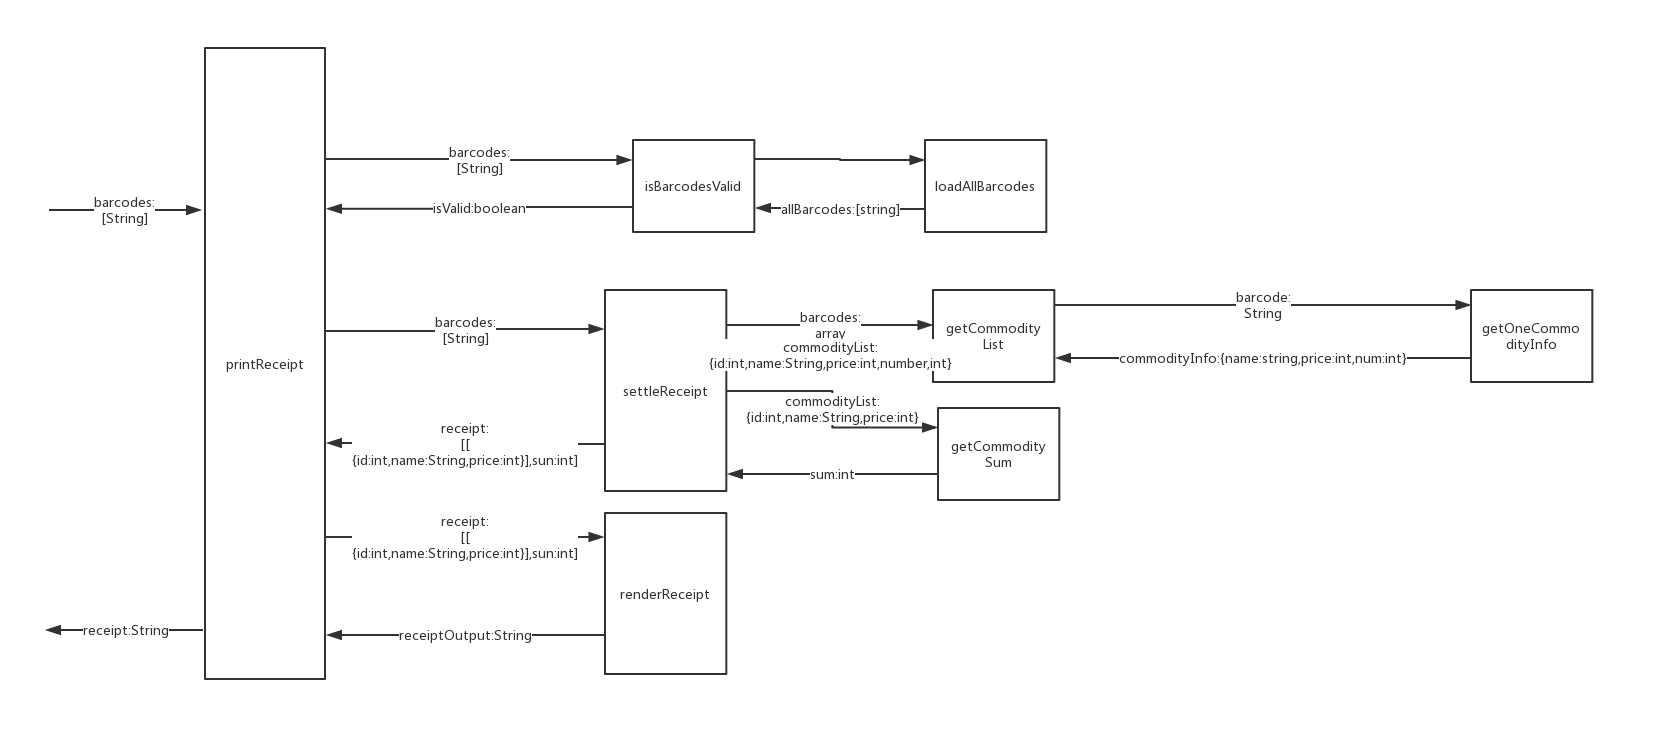
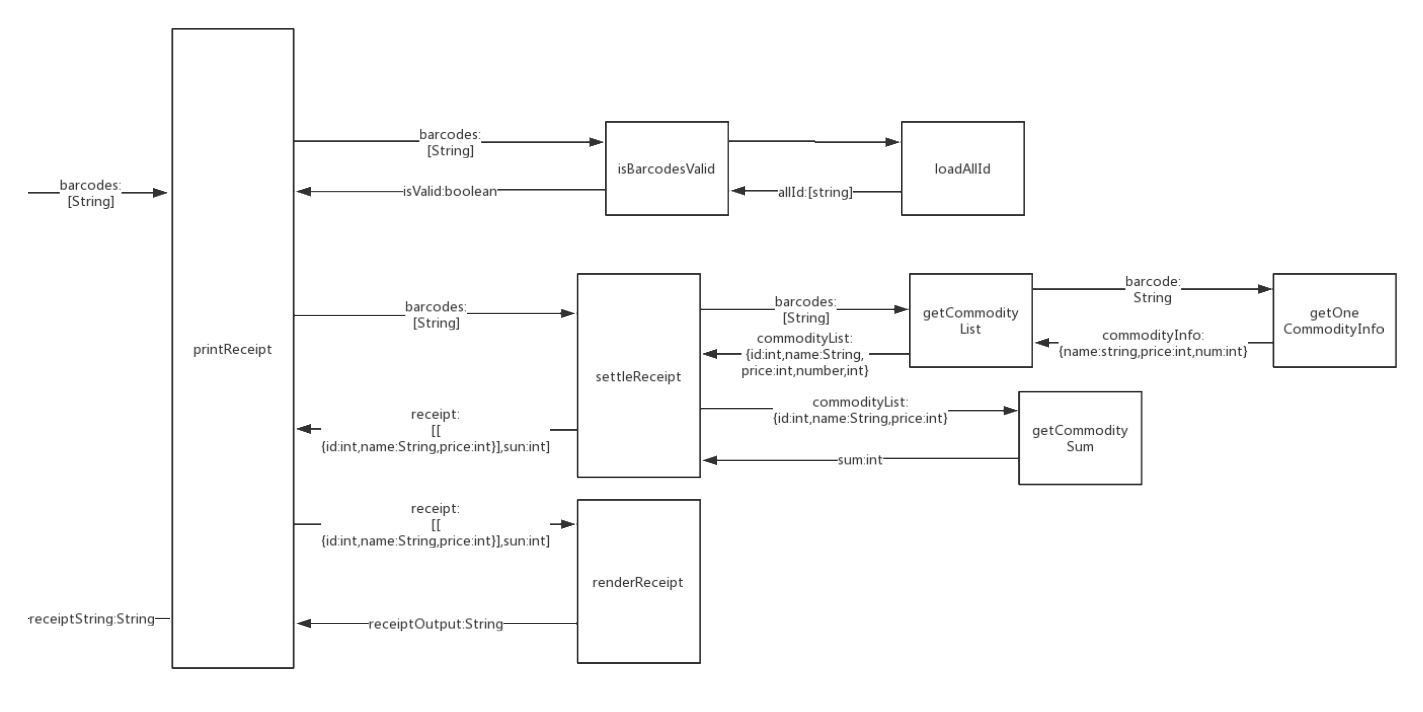
done

diff --git a/PosMashine/__tests__/main-spec.js b/PosMashine/__tests__/main-spec.js
@@ -1,7 +1,92 @@
 
 var m= require('../main');
 
+//loadAllId()
+it ('should return [\'0001\',\'0002\',\'0003\',\'0004\',\'0005\',\'0006\',\'0007\',\'0008\',\'0009\',\'0010\'] ',() => {
+    expect(m.loadAllId()).toStrictEqual(['0001','0002','0003','0004','0005','0006','0007','0008','0009','0010']);
+});
 
-it ('should return true ', () => {
-    expect(m.loadAllBarcodes()).toBe(['0001','0002','0003','0004',]);
+//isBarcodesValid()
+//合法
+it ('should return true',() => {
+    expect(m.isBarcodesValid(['0001', '0003', '0005', '0003'])).toBe(true);
+})
+//出现不合法数据
+it ('should return false',() => {
+    expect(m.isBarcodesValid(['0011', '0003', '0005', '0003'])).toBe(false);
+});
+//出现空输入
+it ('should return false',() => {
+    expect(m.isBarcodesValid([])).toBe(false);
+});
+
+//getOneCommodityInfo()
+
+it ('should return {"id": "0001", "name" : "Coca Cola", "price": 3,"num":0}',() => {
+    expect(m.getOneCommodityInfo('0001')).toStrictEqual({"id": "0001", "name" : "Coca Cola", "price": 3,"num":0});
+});
+
+//getCommodityList()
+
+it ('should return [{"id": "0001", "name" : "Coca Cola", "price": 3,"num":1},\n' +
+    '        {"id": "0003", "name" : "Pepsi-Cola", "price": 5,"num":2},\n' +
+    '        {"id": "0005", "name" : "Dr Pepper", "price": 7,"num":1}]',() => {
+    expect(m.getCommodityList(['0001', '0003', '0005', '0003'])).toStrictEqual(
+        [{"id": "0001", "name" : "Coca Cola", "price": 3,"num":1},
+        {"id": "0003", "name" : "Pepsi-Cola", "price": 5,"num":2},
+        {"id": "0005", "name" : "Dr Pepper", "price": 7,"num":1}]);
+});
+
+//getCommoditySum()
+
+it ('should return 20',() => {
+    expect(m.getCommoditySum([{"id": "0001", "name" : "Coca Cola", "price": 3,"num":1},
+        {"id": "0003", "name" : "Pepsi-Cola", "price": 5,"num":2},
+        {"id": "0005", "name" : "Dr Pepper", "price": 7,"num":1}])).toBe(20);
+});
+
+//settleReceipt()
+
+it ('should return settleReceipt',() => {
+    expect(m.settleReceipt(['0011', '0003', '0005', '0003'])).toStrictEqual({
+        commodity:[
+            {"id": "0001", "name" : "Coca Cola", "price": 3,"num":1},
+            {"id": "0003", "name" : "Pepsi-Cola", "price": 5,"num":2},
+            {"id": "0005", "name" : "Dr Pepper", "price": 7,"num":1}
+        ],
+        sum:20
+    });
+});
+//renderReceipt()
+
+it ('should return renderReceipt',() => {
+    expect(m.renderReceipt({
+        commodity:[
+            {"id": "0001", "name" : "Coca Cola", "price": 3,"num":1},
+            {"id": "0003", "name" : "Pepsi-Cola", "price": 5,"num":2},
+            {"id": "0005", "name" : "Dr Pepper", "price": 7,"num":1}
+        ],
+        sum:20
+    }))
+        .toBe(
+`------------------------------------------------------------
+Coca Cola 3 1
+Pepsi-Cola 5 2
+Dr Pepper 7 1
+------------------------------------------------------------
+Price: 20`
+);
+});
+
+//printReceipt()
+
+it ('should return printReceipt',() => {
+    expect(m.printReceipt(['0001', '0003', '0005', '0003'])).toBe(
+`------------------------------------------------------------
+Coca Cola 3 1
+Pepsi-Cola 5 2
+Dr Pepper 7 1
+------------------------------------------------------------
+Price: 20`
+    );
 });

diff --git a/PosMashine/main.js b/PosMashine/main.js
@@ -11,7 +11,7 @@ const dataBase=[
                    {"id": "0010", "name" : "Fanta", "price": 12}
                ]
 function printReceipt(barcodes){
-    if(isBarcodesValid(barcodes))
+    if(!isBarcodesValid(barcodes))
     return "[ERROR]"
     else{
 
@@ -21,11 +21,13 @@ function printReceipt(barcodes){
 
 function isBarcodesValid(barcodes){
     let allId=loadAllId()
+    if(barcodes.length==0)
+        return false
     for(let i=0;i<barcodes.length;i++){
         for(let j=0;j<allId.length;j++){
             if(barcodes[i]==allId[j])
             break;
-            if(j==barcodes.length-1)
+            if(j==allId.length-1)
             return false
         }
         if(i==barcodes.length-1)
@@ -41,13 +43,7 @@ function loadAllId(){
     return allId
 }
 
-function settleReceipt(barcodes){
-    let receipt={}
-    receipt.commodity=getCommodityList(barcodes)
-    let sum=getCommoditySum(getCommodityList(barcodes))
-    receipt.sum=sum
-    return receipt
-}
+
 
 function getCommodityList(barcodes){
     let commodityList=[]
@@ -55,7 +51,7 @@ function getCommodityList(barcodes){
     for(let i=0;i<barcodes.length;i++){
         if(i==0)commodityList.push(getOneCommodityInfo(barcodes[i]))
         for(let j=0;j<commodityList.length;j++){
-            if(barcodes[i]==commodityList[j].id){
+            if(barcodes[i]==commodityList[j].id&&commodityList[j].id){
                 commodityList[j].num++
                 break
             }else{
@@ -66,6 +62,15 @@ function getCommodityList(barcodes){
     }
 
     return commodityList
+}
+
+function settleReceipt(barcodes){
+    let receipt={}
+    receipt.commodity=getCommodityList(barcodes)
+    let sum=getCommoditySum(receipt.commodity)
+    receipt.sum=sum
+    console.log(receipt)
+    return receipt
 }
 
 function getOneCommodityInfo(barcode){
@@ -106,6 +111,7 @@ Price: ${receipt.sum}`
 
     return receiptString
 }
+
 
 module.exports = {
     printReceipt,
